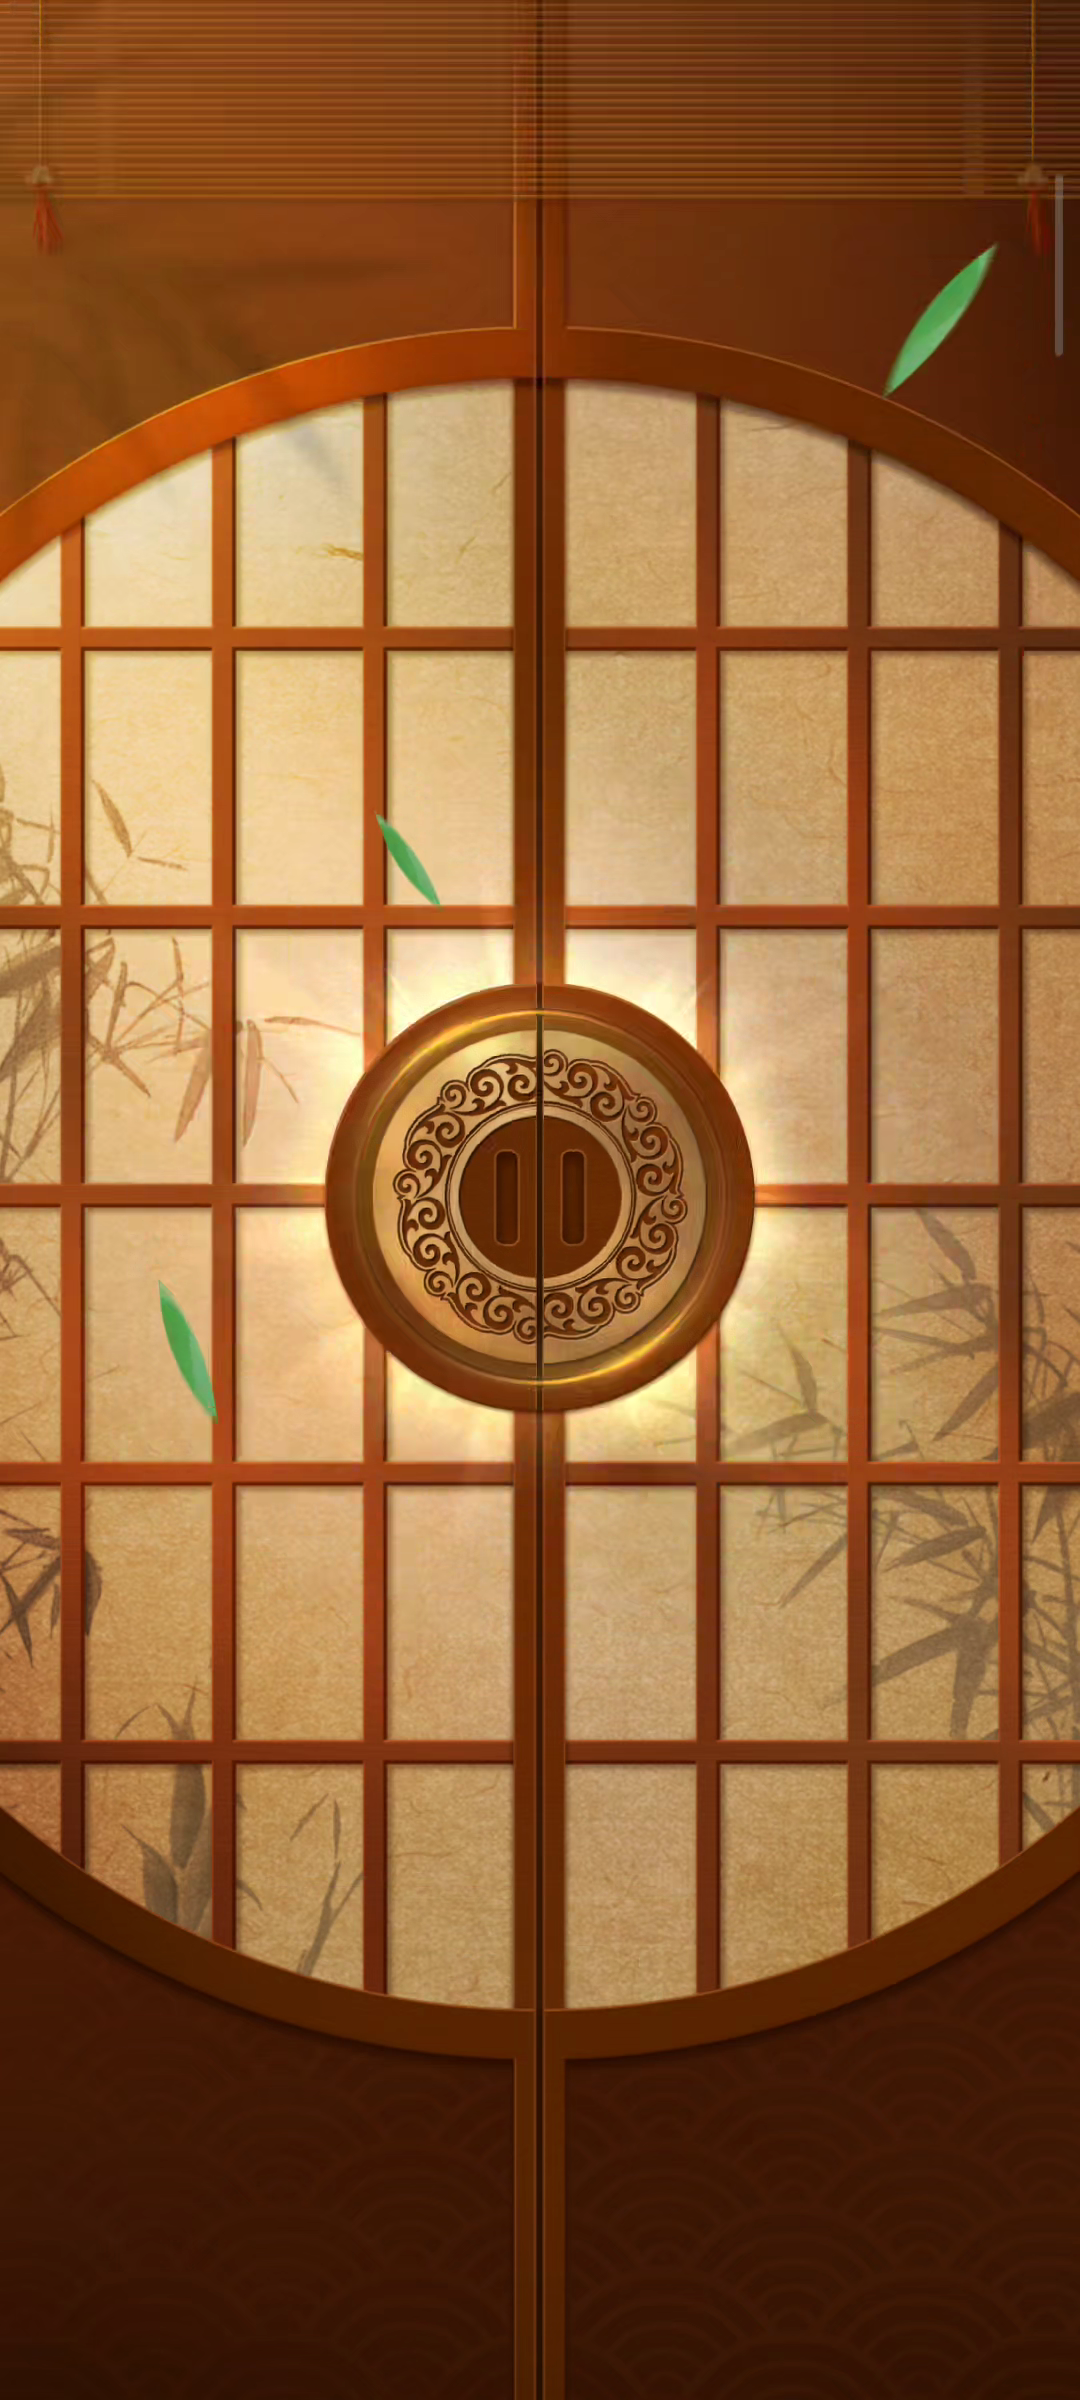
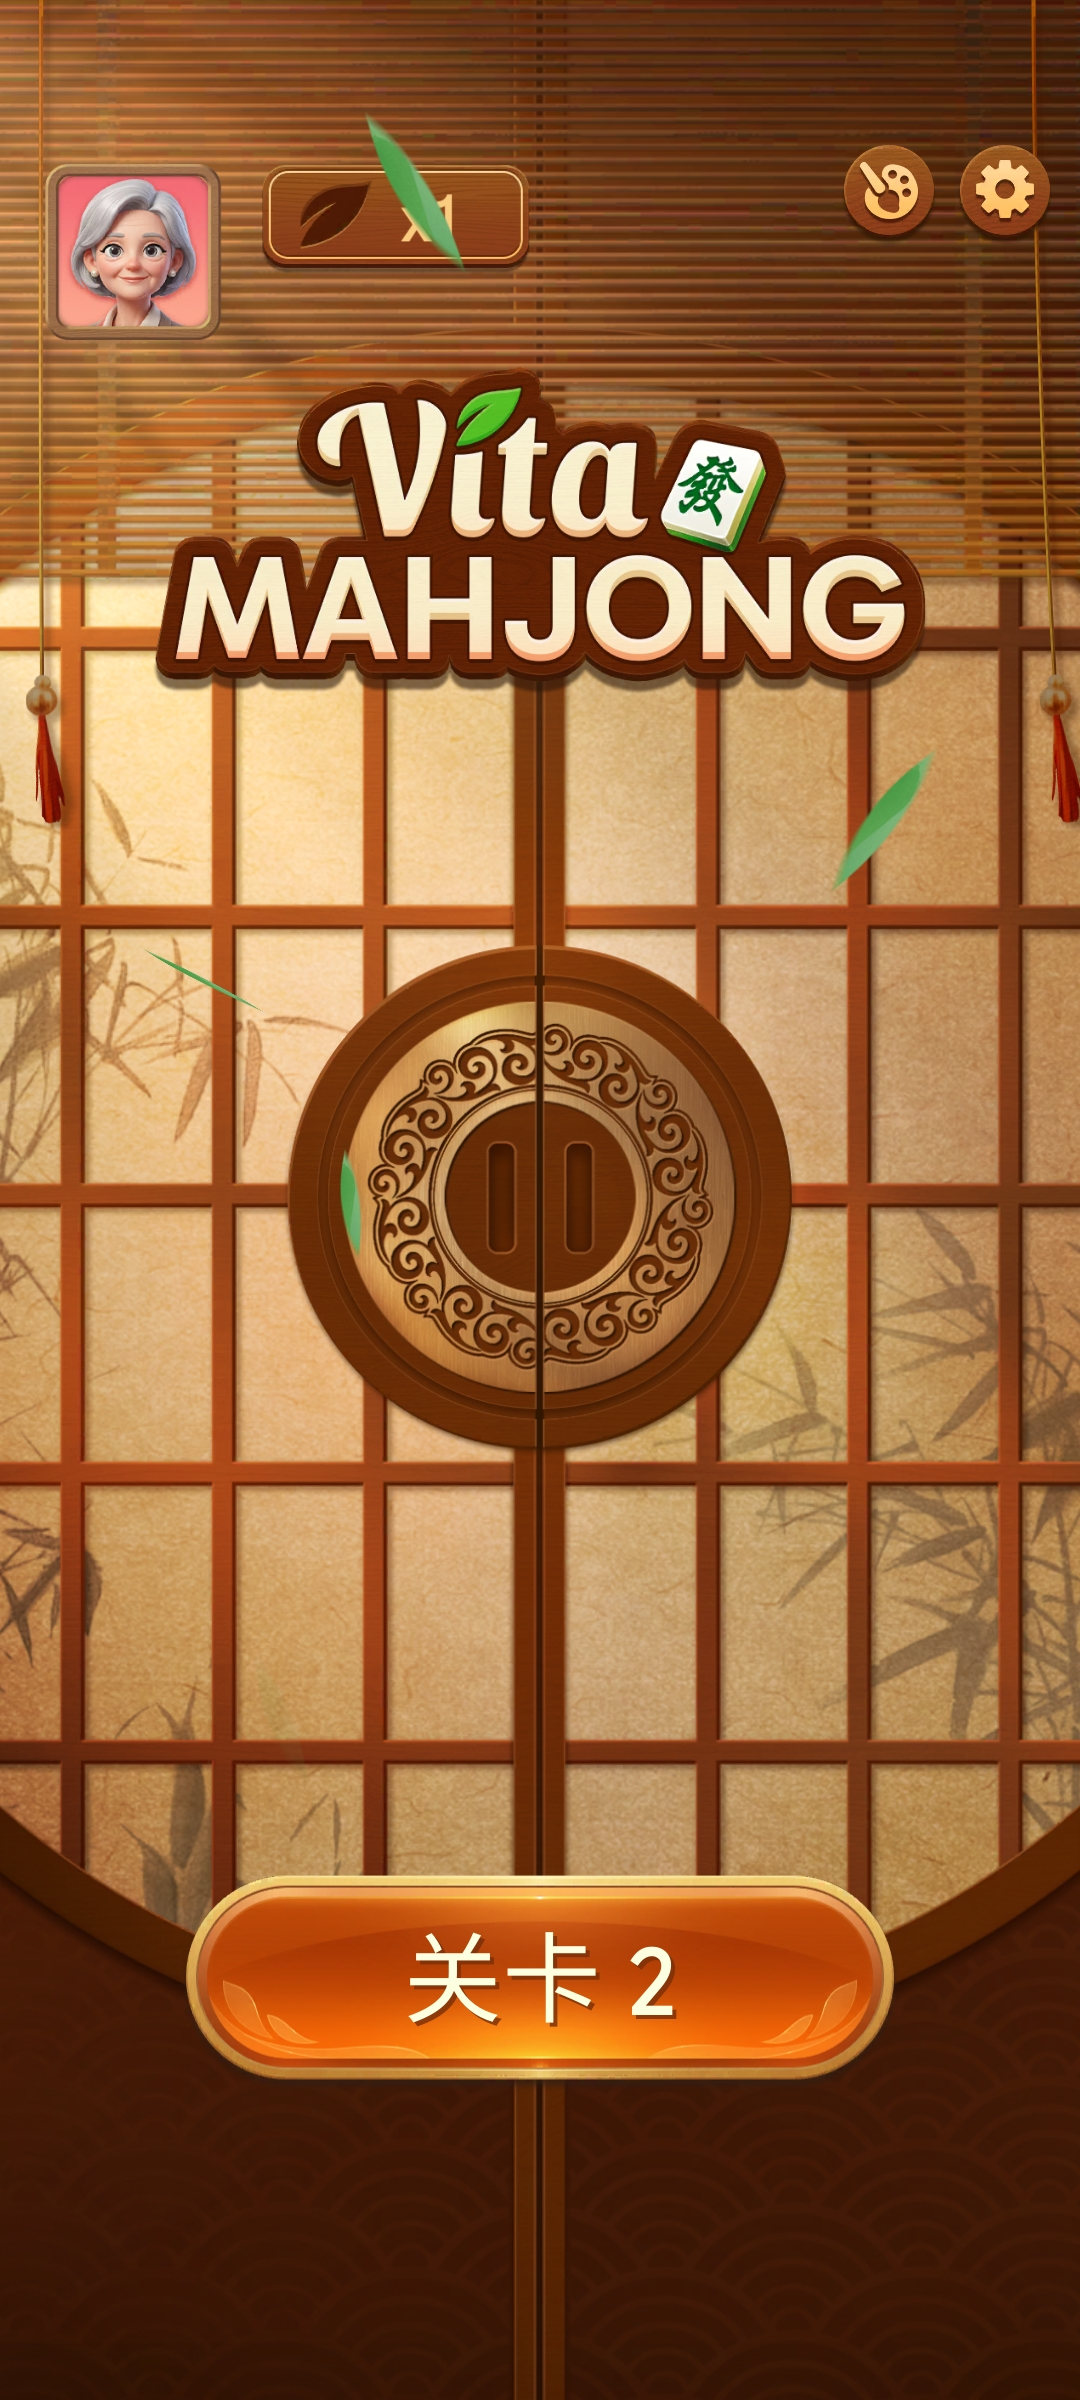
1

diff --git a/src/app/App.ts b/src/app/App.ts
@@ -14,21 +14,21 @@ let currentLevel = loadLevel();
 const lowEndDevice = isLowEndDevice();
 
 export async function createApp(): Promise<Application> {
+  const container = document.getElementById('game');
+  if (!container) {
+    throw new Error('Missing #game container');
+  }
+
   const app = new Application();
   await app.init({
-    resizeTo: window,
+    resizeTo: container,
     backgroundColor: config.colors.homeBg,
     antialias: true,
     resolution: Math.min(window.devicePixelRatio, 2),
     autoDensity: true,
   });
 
-  const container = document.getElementById('game');
-  if (container) {
-    container.appendChild(app.canvas);
-  } else {
-    document.body.appendChild(app.canvas);
-  }
+  container.appendChild(app.canvas);
 
   await loadAssets(['home', 'result', 'fonts']);
 

diff --git a/index.html b/index.html
@@ -17,14 +17,16 @@
         background: #0F172A;
         width: 100%;
         height: 100%;
+        display: flex;
+        align-items: center;
+        justify-content: center;
       }
       #game {
-        position: fixed;
-        inset: 0;
-        width: 100vw;
-        height: 100vh;
-        padding-top: env(safe-area-inset-top, 0px);
-        padding-bottom: env(safe-area-inset-bottom, 0px);
+        position: relative;
+        aspect-ratio: 9 / 20;
+        width: min(100%, 100vh * 9 / 20);
+        height: min(100%, 100vw * 20 / 9);
+        overflow: hidden;
       }
     </style>
   </head>

diff --git a/.planning/phases/03-polish-persistence-distribution/03-UAT.md b/.planning/phases/03-polish-persistence-distribution/03-UAT.md
@@ -35,9 +35,9 @@ result: [pending]
 ## Summary
 
 total: 4
-passed: 0
+passed: 1
 issues: 0
-pending: 4
+pending: 3
 skipped: 0
 blocked: 0
 
